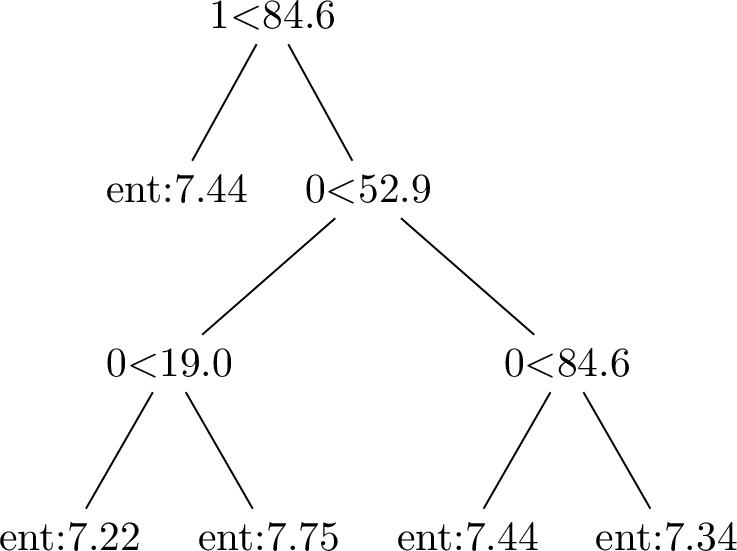
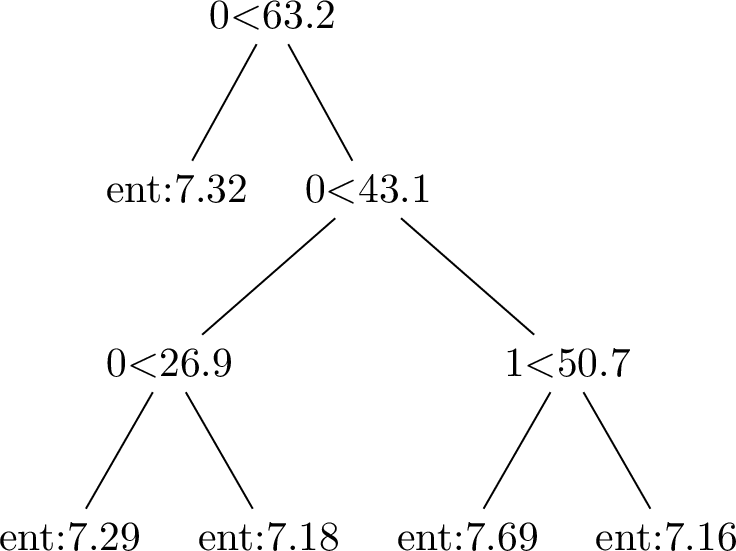
Showing ellipses for every cluster

diff --git a/Code/figures/main.tex b/Code/figures/main.tex
@@ -3,6 +3,6 @@
 \begin{document}
 \begin{forest}
   for tree={l+=.5cm} % increase level distance
-[1$<$84.6[ent:7.44][0$<$52.9[0$<$19.0[ent:7.22][ent:7.75]][0$<$84.6[ent:7.44][ent:7.34]]]]
+[0$<$63.2[ent:7.32][0$<$43.1[0$<$26.9[ent:7.29][ent:7.18]][1$<$50.7[ent:7.69][ent:7.16]]]]
 \end{forest}
 \end{document}
